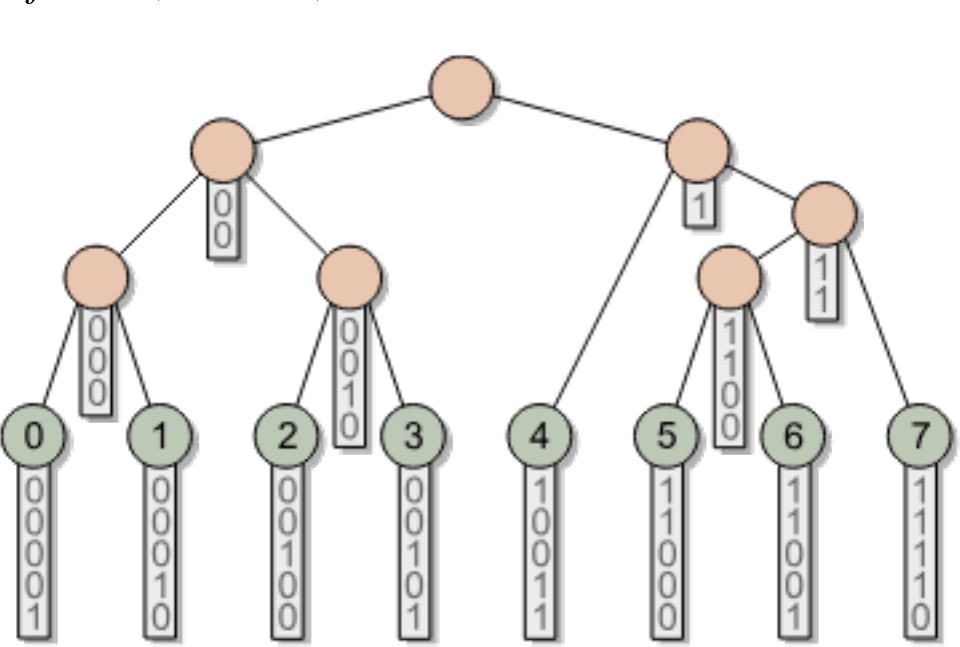
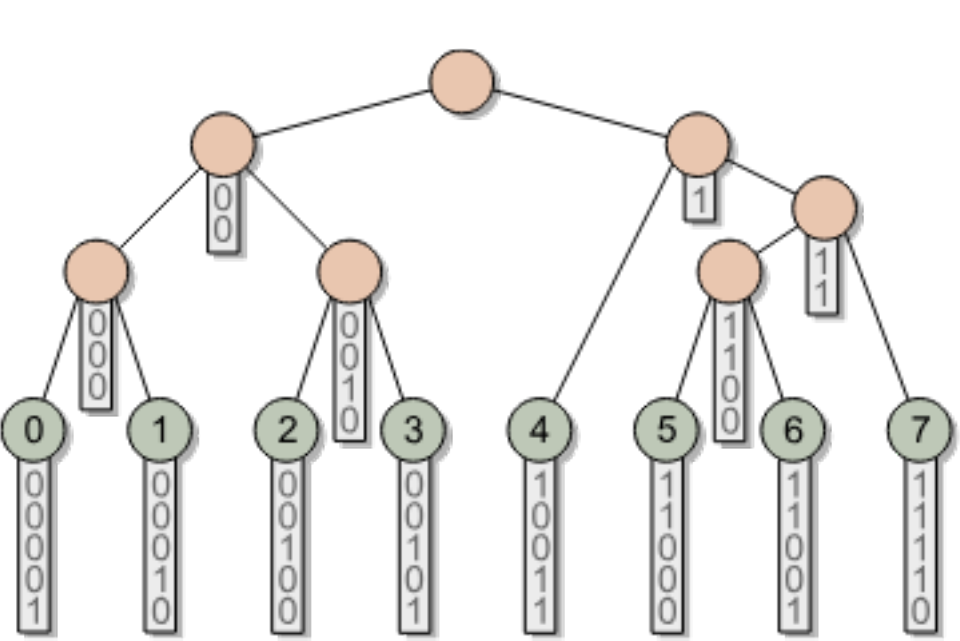
Fixed background chapter, also some of the figures

diff --git a/thesis/chapters/background.tex b/thesis/chapters/background.tex
@@ -4,7 +4,7 @@
 \section{Poisson Boltzmann Equation}
 \label{sec:background-poisson-boltzmann-equation}
 
-The Poisson Boltzmann Equation (PBE) is a non-linear differential equation that solves the mean field electrostatic potential generated by a distribution of fixed charges in a dielectric medium immersed in another one.
+The Poisson Boltzmann Equation (PBE) is a non-linear differential equation that describes the mean field electrostatic potential generated by a distribution of fixed charges in a dielectric medium immersed in another one.
 It is a crucial instrument for modeling interactions at the molecular level, and is used throughout various scientific fields like biomolecular chemistry, soft matter physics and colloidal science.
 In the context of biomolecular chemistry, the fixed point charges represent biochemical molecules such as proteins, while the immersing dielectric medium represents some solvent containing mobile ions.
 For instance this could be a viral protein submersed in water.
@@ -31,15 +31,15 @@ From here the change in dielectric permittivity between the molecule and solvent
 \end{equation}
 where $\varepsilon_0$ is the vacuum permittivity, and $\varepsilon_m$ and $\varepsilon_s$ are the permittivities of the molecule and solvent.
 
-In its basic form, the PBE essentially says that the divergence of the gradient of the electrostatic potential $\phi(\mathbf{r})$ within the molecule and the solvent is equal to their charge densities $\rho_m$ and $\rho_s$:
+In its basic form, the PBE essentially says that the divergence of the gradient of the electrostatic potential $\phi(\mathbf{r})$ within the molecule and the solvent is equal to the negative of their charge densities $\rho_m$ and $\rho_s$:
 \begin{equation}
     \nabla \cdot \left( \varepsilon(\mathbf{r}) \nabla \phi(\mathbf{r}) \right) = -\rho_m(\mathbf{r}) - \rho_s(\mathbf{r}) \qquad \mathbf{r} \in D
     \label{eq:pbe-basic}
 \end{equation}
 The electrostatic potential $\phi(\mathbf{r})$ is a scalar field spanning across the domain $D$. 
-Calculating its gradient $\nabla \phi(\mathbf{r})$ results in a vector field describing the directional changes of the potential, which is the electric field.
-Multiplied with the permittivity, it becomes the electric flux density, which measures the strength of the electric displacement.
-Taking the divergence of it gives yet another scalar field describing the flow.
+Calculating its gradient $\nabla \phi(\mathbf{r})$ results in a vector field describing the directional changes of the potential, which equals the negative electric field.
+Multiplied with the permittivity, it becomes the electric flux density (also called the electric displacement field), which accounts for how the surrounding dielectric responds to the field.
+Taking the divergence of it directly yields the charge density, per Gauss's law.
 To summarize: wherever the electric flux density diverges, the charge density is high, and vice versa.
 
 The charge density in the molecule is composed of fixed charges, that are $N$ point charges $q_i$ at position $r_i$:
@@ -61,7 +61,8 @@ Putting it all together yields the full PBE:
     \label{eq:pbe-full}
 \end{equation}
 
-The de-facto linearized version of the PBE is the Debye-Hückel approximation, which assumes that $K_b T \gg e z_j \phi(\mathbf{r})$, removing the exponential term from Eq.~\eqref{eq:charge-density-solvent} and replacing it with the Debye factor:
+The de-facto linearized version of the PBE is the Debye-Hückel approximation, which assumes that $K_b T \gg e z_j \phi(\mathbf{r})$.
+This permits a first-order Taylor expansion of the exponential in Eq.~\eqref{eq:charge-density-solvent}, causing the zeroth-order term to vanish, leaving a term linear in $\phi$ whose coefficient is the Debye factor:
 \begin{equation}
     \kappa_D^2 = \frac{e^2}{\varepsilon_0 \varepsilon_{r,s} K_b T} \sum_{j=1}^J \rho_j^b z_j^2
     \label{eq:debye-factor}
@@ -93,14 +94,14 @@ Their linear equation contains a sparse matrix, which is a differential operator
 The far-field boundary condition is often satisfied approximately.
 
 BEM reformulate the LPBE as boundary integral at the surface $\Gamma$ by applying Green's identities, and discretize over that.
-Thus they can only compute the electrostatic potential at the surface $\Gamma$, but it also reduces the memory utilization when compared to FEM.
+Thus they can only compute the electrostatic potential at the surface $\Gamma$, but they also reduce the memory utilization when compared to FEM.
 They are also forced to use the LPBE, since the reformulation depends on it.
-Their accuracy depends on the number of triangles used to discretize the surface, making its increase monotonic.
-They solve a linear system with a dense matrix, that is integral operator.
+Their accuracy, which depends on the number of triangles used to discretize the surface, increases monotonically.
+They solve a linear system with a dense matrix, which is an integral operator.
 The far-field boundary condition is exactly satisfied at spatial infinity.
 
-Solvers need to avoid the so called self-energy singularity, which is an artifact of the point charge model, where the electrostatic potential explodes when it is evaluated at the position of the charge.
-Looking at Eq.~\eqref{eq:coulomb-potential} for the basic Coulomb potential, one can identify the problem, that if $\mathbf{r_i}$ in the $\mathbf{r} - \mathbf{r}_i$ term equals $\mathbf{r}$, the divisor drops to 0 and the potential diverges to infinity.
+Solvers need to avoid the so-called self-energy singularity, which is an artifact of the point charge model, where the electrostatic potential explodes when it is evaluated at the position of the charge.
+Looking at Eq.~\eqref{eq:coulomb-potential} for the basic Coulomb potential, one can identify the problem: if $\mathbf{r}_i$ in the $\mathbf{r} - \mathbf{r}_i$ term equals $\mathbf{r}$, the divisor drops to 0 and the potential diverges to infinity.
 \begin{equation}
     \phi(\mathbf{r}) = \frac{q}{4\pi\varepsilon \lVert \mathbf{r} - \mathbf{r}_i \rVert}
     \label{eq:coulomb-potential}
@@ -108,9 +109,9 @@ Looking at Eq.~\eqref{eq:coulomb-potential} for the basic Coulomb potential, one
 
 BEM avoid it intrinsically, since they only evaluate the potential at the surface.
 FEM need to come up with different ways of getting around it.
-Many simply run the simulation twice with different parameters to compute the ``grid energies'' and use it to cancel out the self-energies.
+Many simply run the simulation twice with different parameters to compute the ``grid energies'' and use them to cancel out the self-energies.
 Another way is to replace the point charge model with finite-width Gaussians.
-NextGenPB employs a new strategy, that computes each electrostatic contribution individually, each avoiding the self-energy singularity.
+NextGenPB employs a new strategy that computes each electrostatic contribution individually, each avoiding the self-energy singularity.
 
 \section{Message Passing Interface}
 \label{sec:background-mpi}
@@ -118,14 +119,14 @@ NextGenPB employs a new strategy, that computes each electrostatic contribution 
 The message passing interface (MPI) is an API standard for data communication between processes, available for multiple different programming languages \cite{mpi_forum_standard}.
 It is not a single library.
 Rather it has many different versions and implementations of standard specifications set by the MPI Forum, which is an open consortium of vendors, researchers, and national labs.
-It is conceptualized for clusters with multiple compute nodes, and distributed memory architectures, but it is very flexible and works with all kinds of different architectures, even heterogenous ones.
+It is conceptualized for clusters with multiple compute nodes, and distributed memory architectures, but it is very flexible and works with all kinds of different architectures, even heterogeneous ones.
 On a single machine, it can still provide quasi-multicore parallelization, though each rank's memory is still treated as separate.
 For this use case another API called OpenMP is the better choice \cite{openmp_spec}.
 
 Programs utilizing MPI need to be compiled with the language-appropriate compiler.
 In the case of C++ this is either \texttt{mpiCC} or \texttt{mpicxx}.
 Running these programs also requires the use of the \texttt{mpirun} or \texttt{mpiexec} command.
-Each process is called a rank, and their number can be specified by passing the \texttt{-n} flag when launching a program.
+Processes are called ranks, and their number can be specified by passing the \texttt{-n} flag when launching a program.
 The total number of ranks is called the ``world size''.
 In a cluster, multiple ranks can run on each node in the same sense as the single machine environment.
 Communication between them is done through specialized functions and types provided by an MPI library.
@@ -133,13 +134,13 @@ Communication between them is done through specialized functions and types provi
 \section{CUDA}
 \label{sec:background-cuda}
 
-At this point it is common knowledge that GPUs offer many more, albeit less capable compute units than CPUs.
+At this point it is common knowledge that GPUs offer many more, albeit less capable, compute units than CPUs.
 Intended for rendering 3D graphics, GPUs are specialized in handling many vector and matrix operations in parallel.
 Nvidia's CUDA API was born out of the desire to leverage the highly parallel architecture for applications outside of graphics rendering.
 Stanford researcher Ian Buck exploited graphics APIs to do scientific math calculations, before being picked up by Nvidia in 2004 to work on what would become CUDA \cite{nemire2015gpuevolution}.
 However, it was not just the software that changed.
 GPU architectures themselves changed as well to handle general-purpose compute rather than focusing solely on graphics.
-After its introduction in 2007, CUDA had quickly become an important part of Nvidia's business strategy, as it became dominant in the space of massively-parallel computing.
+After its introduction in 2007, CUDA quickly became an important part of Nvidia's business strategy, as it became dominant in the space of massively-parallel computing.
 
 It is important to point out that CUDA is a proprietary API, which only works with Nvidia's GPUs.
 Luckily this applies to both gaming (or consumer grade) and workstation GPUs, although there are slight differences.
@@ -152,7 +153,7 @@ Strictly sequential problems, and those that are very limited in how much they c
 I will use Nvidia's Ampere architecture to give a basic overview, as it is the main architecture used for the evaluation of this thesis.
 Other generations might differ in certain areas, especially in the specific number of units, so I will omit them from my explanation.
 
-The Ampere GPU architecture \cite{nvidia_ampere_ga102_whitepaper} is organized in groups of Streaming Multiprocessors (SM) called Graphics Processing Clusters (GPC), connected through the L2-Cache (Figure~\ref{fig:ga102-full-gpu}).
+The Ampere GPU architecture \cite{nvidia_ampere_ga102_whitepaper} is organized in groups of Streaming Multiprocessors (SM) called Texture Processing Clusters (TPC) inside larger Graphics Processing Clusters (GPC), connected through the L2-Cache (Figure~\ref{fig:ga102-full-gpu}).
 SMs (Figure~\ref{fig:ga10x-sm}) are then partitioned into processing blocks, each containing multiple CUDA cores, and a register file.
 Each SM also has one L1-Cache and FP64 units, which are absent from the diagram.
 
@@ -160,10 +161,10 @@ Even among the same architecture generation the number of FP64 units varies dras
 While the GA102 chip intended for gaming only has two FP64 units per SM, the ``full scale'' GA100 chip, the compute-focused sibling chip within the same Ampere generation, features 32.
 This results in a FP32 to FP64 performance ratio of 2:1 on GA100.
 The GA102 features double the amount of FP32 cores, which does mean its FP32 performance is higher than GA100, but also exacerbates the performance ratio even further to 64:1.
-This is a cost saving measure, as video games, unlike scientific applications, rarely need FP64 operations.
+This is a cost-saving measure, as video games, unlike scientific applications, rarely need FP64 operations.
 However, Nvidia also markets GPUs like the RTX Pro series as workstation GPUs, even though they are based on the gaming chip, and thus have the same cut-down FP64 performance.
 
-Video memory, or VRAM is absent from the GPU chip, instead being placed around it on the PCB and connected through the memory controllers.
+Video memory, or VRAM, is absent from the GPU chip, instead being placed around it on the PCB and connected through the memory controllers.
 Ordered by descending transfer speed, the hierarchy of the memory is as follows: First comes the register file of the processing blocks, then the L1-Cache of the SM, then the L2-Cache and finally the VRAM.
 
 From the standpoint of the CUDA API, the architecture appears slightly differently.
@@ -177,12 +178,13 @@ The SM is abstracted as a ``block'' and its L1-Cache as the ``shared memory''.
     \label{fig:ga102-full-gpu}
 \end{figure}
 % TODO not sure if I'm gonna keep these detailed descriptions...
-\begin{figure}[htbp]
+\begin{figure}[!ht]
     \centering
-    \includegraphics[width=0.6\textwidth]{figures/ga10x_sm.png}
-    \caption[GA10x streaming multiprocessor]{A single GA10x streaming multiprocessor, split into four processing blocks. Each blocks holds its own register file, warp scheduler and dispatch unit, two FP32 datapaths (one of which doubles as the INT32 datapath) and a third-generation tensor core; all four partitions share the 128\,KB L1 data cache and shared memory. Reproduced from the NVIDIA Ampere GA102 GPU architecture whitepaper \cite{nvidia_ampere_ga102_whitepaper}, \textcopyright{} 2021 NVIDIA Corporation.}
+    \includegraphics[width=0.5\textwidth]{figures/ga10x_sm.png}
+    \caption[GA10x streaming multiprocessor]{A single GA10x streaming multiprocessor, split into four processing blocks. Each block holds its own register file, warp scheduler and dispatch unit, two FP32 datapaths (one of which doubles as the INT32 datapath) and a third-generation tensor core; all four partitions share the 128\,KB L1 data cache and shared memory. Reproduced from the NVIDIA Ampere GA102 GPU architecture whitepaper \cite{nvidia_ampere_ga102_whitepaper}, \textcopyright{} 2021 NVIDIA Corporation.}
     \label{fig:ga10x-sm}
 \end{figure}
+\FloatBarrier
 
 \subsection{Basic Overview}
 \label{sec:background-cuda-basic-overview}
@@ -199,8 +201,7 @@ The basic flow of a CUDA program is typically structured like this \cite{nvidia_
     \item Copying of the device output memory
 \end{itemize}
 Data in the allocated device memory lives primarily in the global memory.
-Kernels are launched as a number of threads per block.
-%kinda choppy
+Kernels are launched as a number of threads per block, with all blocks in total forming the grid.
 
 \subsection{Compiling}
 \label{sec:background-cuda-compiling}
@@ -215,13 +216,13 @@ The necessary CUDA libraries need to be linked as well.
 This not only enables parallelism on the CPU side, but also scaling across multiple compute nodes, unlocking the power of GPU enabled computer clusters.
 % omitting OpenMP because its not relevant to my thesis
 
-\subsection{Library Eco System}
+\subsection{Library Ecosystem}
 \label{sec:background-cuda-libraries}
 
 Nvidia offers a whole suite of libraries based on CUDA, from optimized low-level templates, to high-level implementations.
 Many of those come packaged with the CUDA toolset, and do not have to be installed separately.
-While using those does not require writing custom kernels for the functionality they cover, it does not eliminate the need to write custom kernels elsewhere in the program.
-% dunno kinda ran out of steam here
+While using those does not require writing custom kernels for the functionality they cover, it does not eliminate the need to write custom kernels outright.
+% TODO dunno kinda ran out of steam here
 
 \subsection{Performance Evaluation}
 \label{sec:background-cuda-performance-evaluation}
@@ -229,13 +230,13 @@ While using those does not require writing custom kernels for the functionality 
 GPUs have essentially two major performance limits, those being the compute and memory throughput.
 People often think of theoretical peak performance as just the compute throughput in the measure of floating point operations per second, or $FLOP/s$, but performance can only be realized if the data can be supplied fast enough to saturate it.
 This is the memory throughput and it is measured in $Bytes/s$.
-When plotting both metrics against each other, we get what is called a ``roofline model'', which symbolizes the limit on the theoretical performance.
+When plotting both metrics against each other, it forms the ``roofline model'', which symbolizes the limit on the theoretical performance.
 The exact values of the diagram vary with the capability of the GPU, but the shape always stays the same.
 Kernels always lie underneath the roofline and its position gives us an indication of how well optimized it is, and what its main limit is.
 Kernels to the left of the ridge are bound by memory-throughput, while kernels to the right are bound by the compute-throughput.
 The closer a kernel is to the roofline, the more optimized it is.
 
-The roofline, as well as, many more performance metrics can be easily evaluated thanks to Nsight Compute software (NCU), Nvidia's own profiler.
+The roofline, as well as many more performance metrics, can be easily evaluated thanks to Nsight Compute software (NCU), Nvidia's own profiler.
 To record a profile, one must simply run the application through the \texttt{ncu} command line tool.
 It automatically recognizes the CUDA kernels, but there are also options to flag which kernels should be profiled inside the code.
 The profiles can then be inspected in the GUI application.
@@ -250,7 +251,7 @@ The profiles can then be inspected in the GUI application.
 \section{Sparse Matrices}
 \label{sec:background-sparse-matrices}
 
-Often times matrices describing 2D or 3D systems have many zero-entries in them.
+Oftentimes matrices describing 2D or 3D systems have many zero-entries in them.
 In a dense matrix all of the values are stored, meaning those zeroes contribute to the memory footprint.
 This severely limits the matrix size that could realistically be computed.
 Sparse matrices mitigate this problem by storing only non-zero values.
@@ -264,10 +265,10 @@ Conversely, the Compressed Sparse Row format utilizes 3 arrays: column indices a
 Figure~\ref{fig:csr-format} shows an example of a small $4\times4$ sparse matrix and its corresponding CSR representation.
 The \texttt{values} array stores the non-zero entries in row-major order, and \snakecase{col_idx} stores the column each of those entries belongs to.
 \snakecase{row_offsets} then stores, for each row, the index into \texttt{values}/\snakecase{col_idx} at which that row's entries begin, with a final trailing entry equal to NNZ so that the length of any row can be computed as \snakecase{row_offsets[i+1] - row_offsets[i]}.
-On the surface this might look more complicated than a DOK but the CSR wins when accessing all row values of a matrix, which is conducive to matrix multiplication.
+On the surface this might look more complicated than a DOK, but the CSR wins when accessing all row values of a matrix, which is conducive to matrix multiplication.
 Since \snakecase{row_offsets} depends on the number of values per row, it needs to be recomputed every time values are added or removed.
 
-\begin{figure}[htbp]
+\begin{figure}[htb]
     \centering
     \input{figures/csr_format.tex}
     \caption[Example of the CSR sparse matrix format]{A $4\times4$ sparse matrix (top, non-zero entries outlined in bold) and its Compressed Sparse Row representation (bottom). Each \snakecase{row\_offsets} entry points to where that row's data begins in \snakecase{col\_idx}/\texttt{values}; the trailing entry equals NNZ. Own illustration, following the array layout described in \cite{nvidia_nvpl_sparse_storage}.}
@@ -278,7 +279,7 @@ Since \snakecase{row_offsets} depends on the number of values per row, it needs 
 \label{sec:background-linear-eq-solvers}
 
 In this section I want to go over the different types of methods for solving linear equations in the form of $Ax = b$, where $A$ is a square matrix, and $x$ and $b$ are vectors. 
-$b$ is commonly referred to as the right-hand-side (RHS) which is known, as it is the vector $x$ that these solvers are computing.
+$b$ is commonly referred to as the right-hand side (RHS), which is known, as it is the vector $x$ that these solvers are computing.
 
 \subsection{Direct Solvers}
 \label{sec:background-linear-eq-solvers-direct-solvers}
@@ -289,7 +290,7 @@ They utilize methods like LU- or Cholesky decomposition to break the matrix $A$ 
 
 They have one very big downside though: high memory usage.
 They need to store the matrices resulting from the factorization.
-Even using sparse matrices this increases the storage complexity from \(\mathcal{O}(n)\) to \(\mathcal{O}(n^{4/3})\) where $n$ is the number of unknowns in a 3D mesh.
+Even using sparse matrices, this increases the storage complexity from \(\mathcal{O}(n)\) to \(\mathcal{O}(n^{4/3})\) where $n$ is the number of unknowns in a 3D mesh.
 Direct solvers are mainly used for smaller or medium-sized problems.
 
 \subsection{Iterative Solvers}
@@ -297,6 +298,10 @@ Direct solvers are mainly used for smaller or medium-sized problems.
 
 The other main type of solver is the iterative solver.
 Their basic idea is to start with an approximation and converge towards the solution with each iteration, until the desired accuracy or residual error is reached.
+
+In exact arithmetic, accuracy does not depend on the choice of iterative solver --- it only influences the number of iterations needed. In finite precision this loosens somewhat, since some methods are more susceptible to rounding-error accumulation than others \cite{saad2003iterative}.
+Naturally their performance is governed by the number of iterations needed multiplied by the time each iteration takes.
+Although they do not provide an exact solution like the direct solvers, they utilize a lot less memory, needing little more, or with some methods, no extra memory other than the original matrix itself.
 
 \subsubsection{Krylov Methods}
 
@@ -306,32 +311,28 @@ With a starting vector $x_0$ they compute the initial residual $r_0$ with:
     r_0 = b - A x_0
     \label{eq:initial-residual}
 \end{equation}
-They then construct the Krylov subspace through projections of a vector $r_0$ through increasing powers of the matrix $A$.
+They then construct the Krylov subspace spanned by $r_0$ and the vectors obtained by applying increasing powers of the matrix $A$ to it.
 \begin{equation}
     \mathcal{K}_i(A, r_0) = \mathrm{span}\{r_0, A r_0, A^2 r_0, \dots, A^{i-1} r_0\}
     \label{eq:krylov-subspace}
 \end{equation}
-In which they look for a vector $z_i$, that is added to the previous guess $x_i$. 
+Within this subspace, they look for a vector $z_i$ that is added to the previous guess $x_i$.
 This is then used to compute the next guess $x_{i+1}$.
-It continues these steps until $r_i$ is equal or less than the target residual.
-It is proven that outside of rounding errors, this method terminates at a finite number of steps \cite{saad2003iterative}.
+It continues these steps until $r_i$ is equal to or less than the target residual.
+It is proven that outside of rounding errors, this method terminates in a finite number of steps \cite{saad2003iterative}.
 
-Accuracy does not depend on the choice of iterative solver.
-This only influences the number of iterations.
-Naturally their performance is governed by the number of iterations needed multiplied by the time each iteration takes.
-Although they do not provide an exact solution like the direct solvers, they utilize a lot less memory, needing little more, or with some methods, no extra memory other than the original matrix itself.
-
-Two of the most well known Krylov methods are conjugate gradient (CG) and generalized minimal residual (GMRES).
+Two of the most well-known Krylov methods are conjugate gradient (CG) and generalized minimal residual (GMRES).
 CG is specialized for symmetric positive-definite matrices, but due to that assumption, it produces less memory overhead.
 Luckily, the differential operators of FEM solvers fall exactly into that category.
-GMRES works on general systems, but produces greater memory overhead, because of its restart parameters.
+GMRES works on general systems, but produces greater memory overhead, because it needs to store the Arnoldi basis.
+The memory overhead can be reduced through restart parameters.
 
 Traditional Krylov methods suffer from a strong-scaling wall, due to a global reduction step present at either the construction of the Krylov space, or computation of $z_i$.
-For this purpose there exist so called ``communication-avoidant'' Krylov methods \cite{hoemmen2010communication, cornelis2018pipelined}.
+For this purpose there exist so-called ``communication-avoiding'' Krylov methods \cite{hoemmen2010communication, cornelis2018pipelined}.
 
 \subsubsection{Jacobi Method}
 
-One well known, non-Krylov method is the Jacobi method.
+One well-known, non-Krylov method is the Jacobi method.
 It starts out by decomposing the matrix $A$ into a diagonal matrix, a lower triangular matrix and an upper triangular matrix.
 \begin{equation}
     A = D + L + U
@@ -354,11 +355,11 @@ They come up with a linear operator like a matrix $M$, which is an easily invert
 An example would be matrix $D$ from the Jacobi Method, which is purely diagonal. 
 Other times the operator would be calculated implicitly using a preconditioner algorithm, like with algebraic multigrid.
 Instead of solving $Ax=b$ directly, Krylov methods apply this operator to the equation on every iteration.
-This is done either through left preconditioning ($M^{-1}Ax = M^{-1}b$), right preconditioning ($AM^{-1}u = b$ where $u=Mx$), or --- specifically for CG --- split conditioning ($L^{-1}AL^{T}v = L^{-1}b$ with $M=LL^T$ and $v=L^Tx$).
+This is done either through left preconditioning ($M^{-1}Ax = M^{-1}b$), right preconditioning ($AM^{-1}u = b$ where $u=Mx$), or --- specifically for CG --- split preconditioning ($L^{-1}AL^{-T}v = L^{-1}b$ with $M=LL^T$ and $v=L^Tx$).
 
-The basic idea is essentially to bring the matrix $A$ closer to the identity matrix.
-It is the ``ideal'' matrix to strife towards, since it converges immediately
-For example in Krylov methods, the initial residual would be $r_0=b-Ix_0=b-x_0=b$ assuming that the initial guess $x_0$ is 0. 
-The subsequent Krylov space would then consist of just $r_0I$ = $bI$ = $b$, which is the final solution.
+The basic idea is essentially to bring the matrix $M^{-1}A$ closer to the identity matrix $I$.
+It is the ``ideal'' matrix to strive towards, since it converges immediately.
+For example in Krylov methods, the initial residual would be $r_0=b-Ix_0=b-x_0=b$ assuming that the initial guess $x_0$ is 0.
+The subsequent Krylov space would collapse into $\mathrm{span}\{r_0\} = \mathrm{span}\{b\} = b$, which is the final solution.
 Interestingly enough, the perfect preconditioner in theory would be the $A$ itself, since $AA^{-1}=I$.
 Unfortunately, computing its inversion would be just as hard as computing the system using no preconditioner at all.

diff --git a/thesis/chapters/alternative_techniques.tex b/thesis/chapters/alternative_techniques.tex
@@ -241,14 +241,14 @@ The final result can then be seen in Figure~\ref{fig:karras-node-layout}.
 
 \begin{figure}[htbp]
     \centering
-    \includegraphics[width=0.85\textwidth]{figures/karras2012_radix_tree.png}
+    \includegraphics[width=0.6\textwidth]{figures/karras2012_radix_tree.png}
     \caption[Ordered binary radix tree]{Ordered binary radix tree. Leaf nodes, numbered 0--7, store a set of 5-bit keys in lexicographical order, and the internal nodes represent their common prefixes. Each internal node covers a linear range of keys, which it partitions into two subranges according to their first differing bit. Reproduced from \cite{karras2012lbvh}, \textcopyright{} 2012 The Eurographics Association.}
     \label{fig:karras-radix-tree}
 \end{figure}
 
 \begin{figure}[htbp]
     \centering
-    \includegraphics[width=0.85\textwidth]{figures/karras2012_node_layout.png}
+    \includegraphics[width=0.6\textwidth]{figures/karras2012_node_layout.png}
     \caption[Node layout for the ordered binary radix tree]{Node layout for the tree of Figure~\ref{fig:karras-radix-tree}. Each internal node has been assigned an index between 0--6, and aligned horizontally with a leaf node of the same index. The range of keys covered by each node is indicated by a horizontal bar, and the split position, corresponding to the first bit that differs between the keys, is indicated by a red circle. Reproduced from \cite{karras2012lbvh}, \textcopyright{} 2012 The Eurographics Association.}
     \label{fig:karras-node-layout}
 \end{figure}

diff --git a/thesis/main.tex b/thesis/main.tex
@@ -11,6 +11,7 @@
 \usepackage{multirow}
 \usepackage{geometry}
 \usepackage{enumitem}
+\usepackage{placeins}
 \geometry{margin=2.5cm}
 \usepackage[colorlinks=true,linkcolor=black,citecolor=blue,urlcolor=blue]{hyperref}
 \usepackage{listings}
